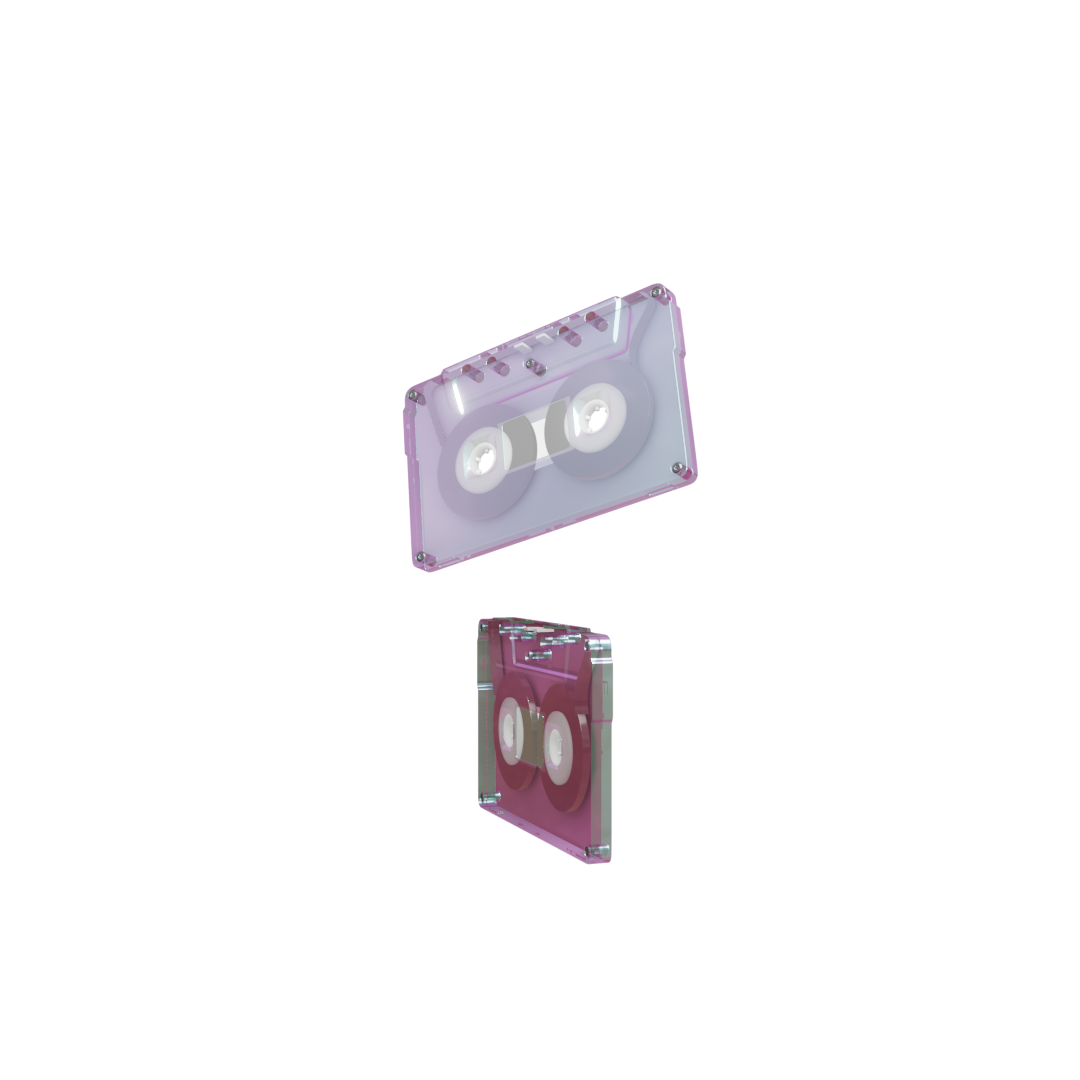
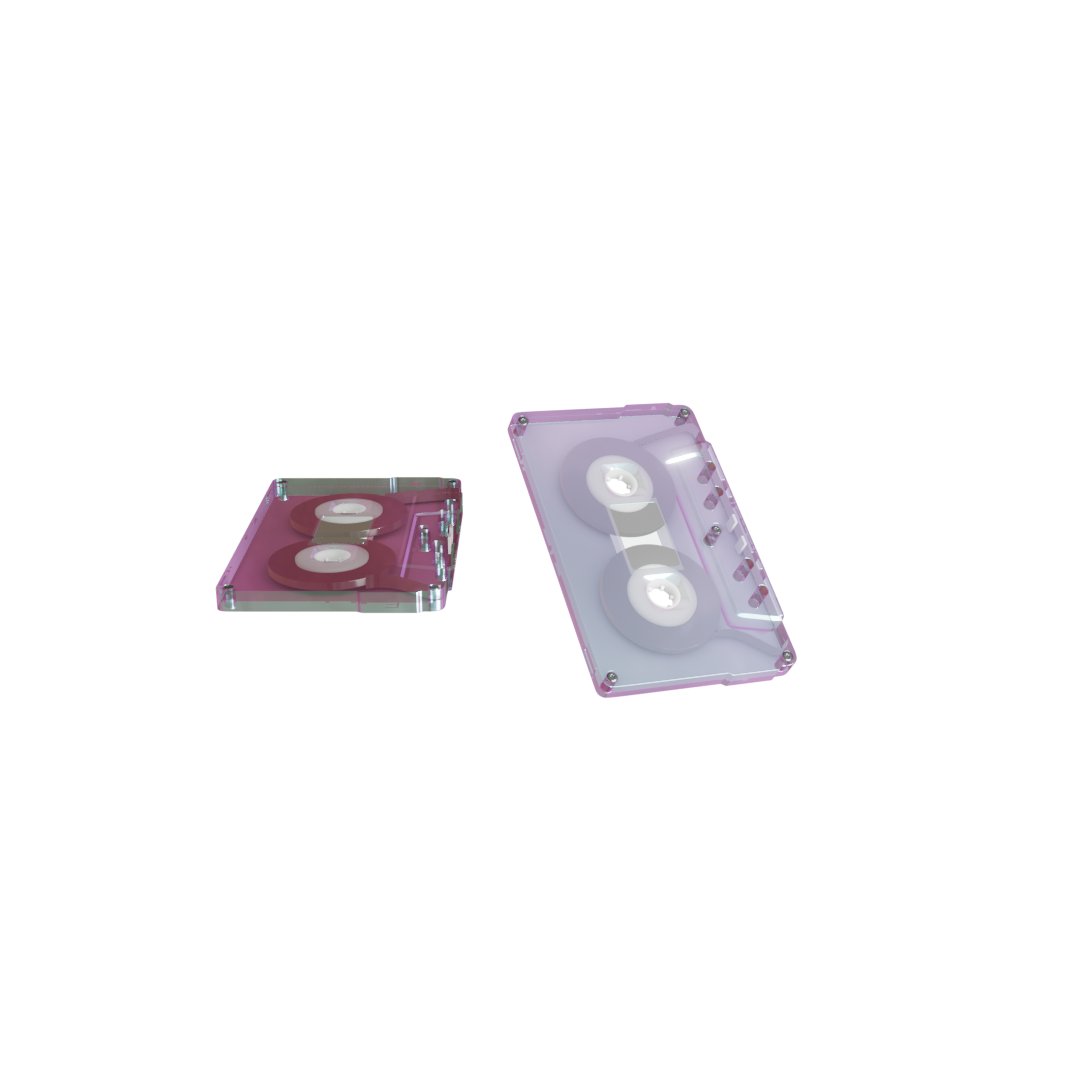
edit

Changed region(s): [[0.1833, 0.2444, 0.7333, 0.7944]]

diff --git a/css/style.css b/css/style.css
@@ -343,6 +343,7 @@ body {
   background-image: url("../images/background2.jpg") !important;
   background-attachment: fixed !important;
   background-size: cover !important;
+  background-repeat: no-repeat;
   overflow: hidden !important;
   z-index: -100;
 }
@@ -422,14 +423,14 @@ body {
 /* SOUVENIR */
 .souvenir{
   position: absolute;
-  left: 30%;
-  top: 50%;
-  width: 10%;
-  height: 40%;
+  left: 28%;
+  top: 60%;
+  width: 15%;
+  height: 25%;
   background: url('../images/png-seq/statickaset.png');
-  background-size: 300% auto;
+  background-size: 160% auto;
   background-repeat: no-repeat;
-  background-position: 55% 65%;
+  background-position: center;
 }
 
 /* GALLERY */

diff --git a/homepage.html b/homepage.html
@@ -181,7 +181,7 @@
 
       <div id="live-mc" class="live-mc"></div>
 
-      <div class="video-mc">
+      <div class="video-mc embed-responsive">
         <iframe width="560" height="315" src="https://www.youtube.com/embed/6ksnNqA302I?autoplay=1" frameborder="0" allow="accelerometer; autoplay; encrypted-media; gyroscope; picture-in-picture" allowfullscreen></iframe>
       </div>
 
